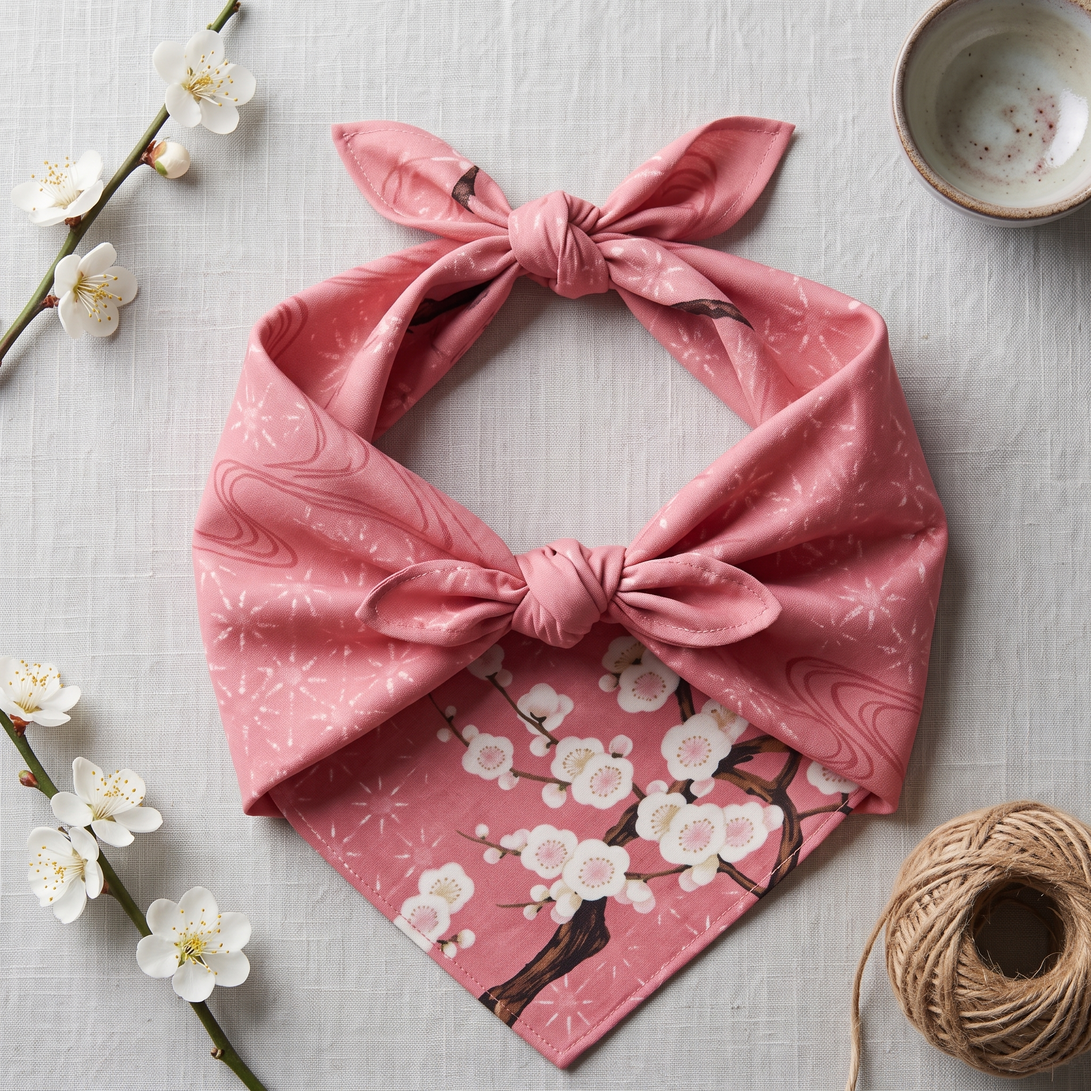
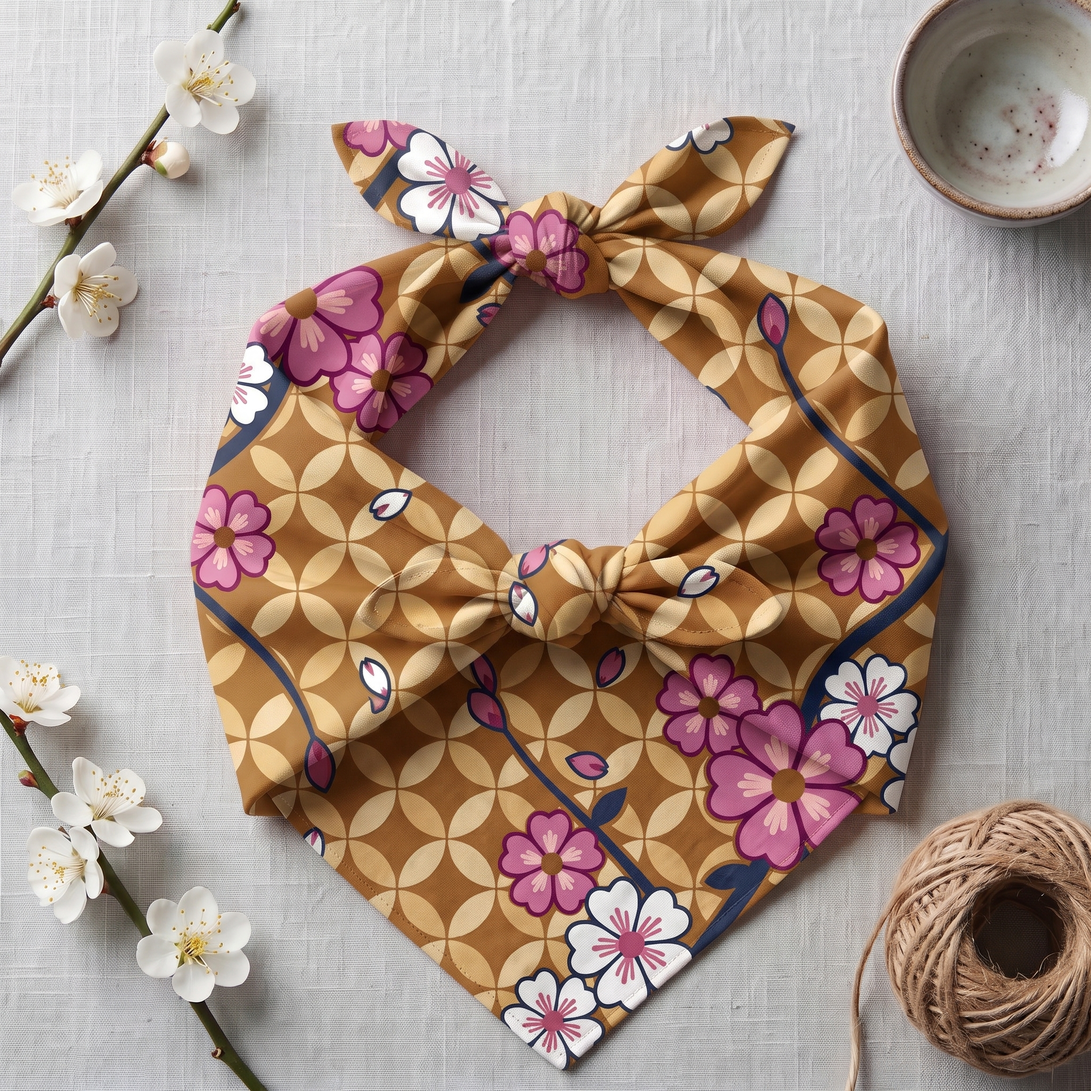
new

diff --git a/src/data/motifs.js b/src/data/motifs.js
@@ -1,66 +1,50 @@
 export const MOTIFS = [
   {
-    id: 'kawung',
+    id: 'mekar',
     code: '01',
-    name: 'Motif Kawung',
-    origin: 'Kasultanan Yogyakarta & Surakarta',
-    meaning: 'Kesucian Hati & Keadilan Pemimpin',
-    tagline: 'Perlambang Empat Penjuru Mata Angin & Keluhuran Budi',
-    image: '/images/kawung.jpg',
+    name: 'Mekar (Kawung × Sakura)',
+    origin: 'Akulturasi Nusantara & Jepang',
+    meaning: 'Kesucian Hati & Harapan yang Bersemi',
+    tagline: 'Harmoni Geometri Kawung Jawa dan Kelopak Sakura Jepang',
+    image: '/images/sakura.jpg',
     history:
-      'Berkembang sejak abad ke-13 di tanah Jawa, motif Kawung awalnya merupakan motif larangan (gehegan) yang hanya dikenakan oleh kalangan bangsawan dan abdi dalem yang berhati lurus dan bersih.',
+      'Lahir dari perpaduan motif sakral Kawung yang telah berkembang sejak era kerajaan Mataram dengan keanggunan bunga Sakura Jepang. Titik temu dua kebudayaan yang sama-sama memuliakan siklus alam dan kesederhanaan budi pekerti.',
     philosophy:
-      'Pola empat bulatan elips menyerupai irisan buah aren (kolang-kaling) yang berporos pada satu titik pusat. Melambangkan kesadaran diri menjaga kesucian hati, keadilan sosial, dan keseimbangan terhadap semesta serta Sang Pencipta.',
+      'Pola empat bulatan Kawung melambangkan kesucian hati, keadilan, dan penjagaan diri, sedangkan kelopak Sakura yang mekar merepresentasikan keindahan hidup, kerendahan hati, dan awal perjalanan yang penuh harapan.',
     momentRelevance:
-      'Bermakna luhur untuk bingkisan silaturahmi, hadiah pencapaian, dan tas bekal harian sebagai pengingat integritas diri.',
-    furoshikiPairing: 'Shizuku-tsutsumi (Tas Jinjing Bulat) untuk membawa ketulusan dalam aktivitas harian.'
+      'Pilihan istimewa untuk bandana harian, scarf leher, bingkisan persahabatan, atau tanda kasih penyemangat langkah baru.',
+    furoshikiPairing: 'Bandana Furoshiki Style & Scarf Leher (Ukuran S: 47 × 47 cm).'
   },
   {
-    id: 'parang',
+    id: 'kelana',
     code: '02',
-    name: 'Motif Parang Rusak',
-    origin: 'Keraton Mataram Islam (Yogyakarta)',
-    meaning: 'Pantang Menyerah & Keteguhan Jiwa',
-    tagline: 'Garis Miring Ombak Karang yang Tak Pernah Putus',
-    image: '/images/parang.jpg',
+    name: 'Kelana (Mega Mendung × Tsuru)',
+    origin: 'Pesisir Cirebon & Tradisi Jepang',
+    meaning: 'Keteduhan Jiwa & Kesetiaan Panjang Umur',
+    tagline: 'Awan Berarak Mega Mendung Mengiringi Kepak Sayap Bangau Tsuru',
+    image: '/images/burung.jpg',
     history:
-      'Diciptakan oleh Sultan Agung Hanyakrakusuma saat bertapa di pesisir Pantai Selatan Jawa, mengamati deburan ombak samudera yang gigih menghantam karang terjal tanpa henti.',
+      'Mengawinkan kekayaan batik Mega Mendung khas pesisir Cirebon yang sarat pengaruh akulturasi dengan Tsuru (burung bangau mahkota merah Jepang)—simbol suci perdamaian, kesetiaan abadi, dan umur panjang.',
     philosophy:
-      'Garis diagonal huruf S yang saling menjalin tanpa putus menyimbolkan kesinambungan perjuangan hidup, ketajaman budi pekerti, dan keteguhan batin menghadapi badai kehidupan.',
+      'Gradasi lapisan awan mengajarkan kesabaran, pengendalian ego, dan ketenangan batin, sementara burung bangau yang melintasi angkasa membawa pesan harapan luhur dan keharmonisan hidup.',
     momentRelevance:
-      'Sangat tepat dihadiahkan untuk kelulusan, perintisan usaha baru, promosi kepemimpinan, dan pelindung buku karya penting.',
-    furoshikiPairing: 'Hon-tsutsumi (Tas Pelindung Buku) atau Bin-tsutsumi (Carrier Botol Minuman).'
+      'Sangat ideal untuk wadah bekal bento keluarga, kado ulang tahun, hantaran pernikahan, dan ungkapan rasa syukur.',
+    furoshikiPairing: 'Otsukai-tsutsumi (Bungkus Bekal Bento & Kotak Kado Elegan - Ukuran M: 72 × 72 cm).'
   },
   {
-    id: 'truntum',
+    id: 'gelora',
     code: '03',
-    name: 'Motif Truntum',
-    origin: 'Kasunanan Surakarta Hadiningrat',
-    meaning: 'Cinta Kasih yang Bersemi Kembali',
-    tagline: 'Taburan Kembang Bintang Pembawa Kedamaian Jiwa',
-    image: '/images/truntum.jpg',
+    name: 'Gelora (Parang × Nami)',
+    origin: 'Keraton Mataram & Samudera Jepang',
+    meaning: 'Keteguhan Batin & Semangat Pantang Menyerah',
+    tagline: 'Garis Parang Tak Terputus Menembus Gulungan Ombak Nami',
+    image: '/images/ombak.jpg',
     history:
-      'Diciptakan oleh Kanjeng Ratu Kencana yang memandang keindahan taburan bintang di langit malam saat berikhtiar memulihkan keharmonisan dan kedamaian batin.',
+      'Memadukan motif Parang Rusak ciptaan Sultan Agung yang terinspirasi ombak karang Pantai Selatan dengan dinamika seni ombak Nami Jepang yang perkasa dan mentari terbit pembawa fajar baru.',
     philosophy:
-      'Kelopak kembang kecil menyerupai bintang berkelip melambangkan cinta tanpa pamrih yang terus mekar, bertumbuh kembali (tumaruntum), dan menghangatkan jiwa sesama.',
+      'Garis diagonal huruf S Parang melambangkan kesinambungan ikhtiar dan ketajaman budi, berpadu dengan deburan ombak biru yang melambangkan kekuatan menembus segala rintangan hidup.',
     momentRelevance:
-      'Pilihan utama untuk seserahan pernikahan, hadiah ulang tahun perkawinan, dan ungkapan kasih sayang tulus kepada sahabat.',
-    furoshikiPairing: 'Otsukai-tsutsumi (Bungkus Kado Klasik) dengan simpul pita anggun di bagian atas.'
-  },
-  {
-    id: 'megamendung',
-    code: '04',
-    name: 'Motif Mega Mendung',
-    origin: 'Cirebon, Jawa Barat',
-    meaning: 'Keteduhan, Kesabaran & Pengendalian Diri',
-    tagline: 'Awan Berlapis yang Membawa Keteduhan Hati',
-    image: '/images/megamendung.jpg',
-    history:
-      'Tumbuh dalam tradisi batik Cirebon, Mega Mendung dikenal melalui bentuk awan berlapis yang kuat dan dinamis. Coraknya mencerminkan pertemuan budaya pesisir Cirebon dengan pengaruh seni Tiongkok yang kemudian diolah menjadi identitas lokal.',
-    philosophy:
-      'Lapisan awan dan gradasi warnanya melambangkan keteduhan, kesabaran, serta kemampuan menahan amarah. Alurnya mengingatkan bahwa hidup selalu bergerak, namun hati perlu tetap tenang dalam menghadapi perubahan.',
-    momentRelevance:
-      'Cocok untuk hadiah penyemangat, ungkapan damai, apresiasi kepada sosok pembimbing, atau bingkisan bagi seseorang yang sedang memasuki babak baru.',
-    furoshikiPairing: 'Otsukai-tsutsumi atau Bin-tsutsumi agar alur awan Mega Mendung tetap terlihat utuh dan mengalir.'
+      'Sangat tepat untuk tas jinjing bepergian, kado kelulusan, perintisan karya baru, dan pelindung buku karya berharga.',
+    furoshikiPairing: 'Shizuku-tsutsumi (Tas Jinjing Bulat Serbaguna - Ukuran L: 96 × 96 cm).'
   }
 ];

diff --git a/src/components/ProductCraft.jsx b/src/components/ProductCraft.jsx
@@ -11,10 +11,10 @@ export default function ProductCraft() {
   const craftFeatures = [
     {
       icon: 'ph:bounding-box-duotone',
-      title: 'Dimensi Presisi 70 × 70 cm',
+      title: 'Pilihan Ukuran S, M, & L',
       subtitle: 'Standar Serbaguna Bujur Sangkar',
       description:
-        'Ukuran standar dalam tradisi pelipatan kain. Proporsi bujur sangkar simetris yang pas untuk membawa botol, buku, atau dijadikan tas jinjing harian tanpa kelebihan sisa kain yang mengganjal.',
+        'Hadir dalam 3 ukuran presisi: S (47×47 cm) untuk bandana/aksesori, M (72×72 cm) untuk bekal bento & kado, serta L (96×96 cm) untuk tas jinjing fleksibel tanpa sisa kain berlebih.',
       badge: 'Bujur Sangkar Simetris'
     },
     {
@@ -45,6 +45,30 @@ export default function ProductCraft() {
 
   return (
     <section className="relative py-16 lg:py-24 bg-[#F5F0EB]/60 border-t border-[#E6DFD5] overflow-hidden" id="spesifikasi">
+
+      {/* Subtle Javanese Batik Parang & Kawung Vector Background */}
+      <div className="absolute inset-0 pointer-events-none select-none opacity-[0.07]" aria-hidden="true">
+        <svg
+          className="absolute right-0 top-1/2 -translate-y-1/2 w-[500px] h-[500px] text-[#C85A32]"
+          viewBox="0 0 300 300"
+          fill="none"
+          stroke="currentColor"
+        >
+          <g strokeWidth="1.5" strokeLinecap="round">
+            <path d="M50,0 Q80,40 60,80 T70,160 T80,240 T90,320" />
+            <path d="M110,0 Q140,40 120,80 T130,160 T140,240 T150,320" strokeDasharray="4 4" strokeWidth="1" />
+            <path d="M170,0 Q200,40 180,80 T190,160 T200,240 T210,320" />
+            <path d="M230,0 Q260,40 240,80 T250,160 T260,240 T270,320" strokeDasharray="4 4" strokeWidth="1" />
+          </g>
+          <g strokeWidth="1.2" transform="translate(160, 80)">
+            <ellipse cx="50" cy="25" rx="22" ry="11" />
+            <ellipse cx="50" cy="75" rx="22" ry="11" />
+            <ellipse cx="25" cy="50" rx="11" ry="22" />
+            <ellipse cx="75" cy="50" rx="11" ry="22" />
+            <circle cx="50" cy="50" r="4" fill="currentColor" fillOpacity="0.3" />
+          </g>
+        </svg>
+      </div>
 
       <div className="max-w-7xl mx-auto px-6 lg:px-12 relative">
 
@@ -120,8 +144,8 @@ export default function ProductCraft() {
             <div className="bg-[#FDFBF7] rounded-2xl p-5 border border-[#E6DFD5] shadow-sm">
               <div className="relative rounded-xl overflow-hidden border border-[#E6DFD5] aspect-[4/3] bg-[#F5F0EB]">
                 <img
-                  src="/images/batik-spread.jpg"
-                  alt="Detail fisik kain katun rayon viscose dan jahit neci BHAPTIK"
+                  src="/images/burung.jpg"
+                  alt="Detail kain Furoshiki Batik BHAPTIK motif Kelana (Mega Mendung × Tsuru)"
                   className="w-full h-full object-cover card-zoom-img"
                 />
               </div>
@@ -133,8 +157,8 @@ export default function ProductCraft() {
                   <span className="font-semibold text-[#2B2523]">Katun Rayon Viscose 100%</span>
                 </div>
                 <div className="flex items-center justify-between py-1.5 border-b border-[#E6DFD5]">
-                  <span className="text-stone-500 font-medium">Dimensi Kain</span>
-                  <span className="font-semibold text-[#2B2523]">70 × 70 cm Presisi</span>
+                  <span className="text-stone-500 font-medium">Pilihan Ukuran</span>
+                  <span className="font-semibold text-[#2B2523]">S (47×47cm) · M (72×72cm) · L (96×96cm)</span>
                 </div>
                 <div className="flex items-center justify-between py-1.5 border-b border-[#E6DFD5]">
                   <span className="text-stone-500 font-medium">Finishing Tepian</span>

diff --git a/src/data/tutorials.js b/src/data/tutorials.js
@@ -6,11 +6,11 @@ export const TUTORIALS = [
     category: 'Tas Jinjing',
     difficulty: 'Mudah',
     stepsCount: 5,
-    clothSize: 'Kain 70x70cm',
-    image: '/images/hero-bag.jpg',
+    clothSize: 'Kain 96×96 cm (Gelora L)',
+    image: '/images/tas.jpg',
     youtubeUrl: 'https://youtu.be/Jmp0JxnccMU?si=trgYRHi7TSX7RAVs',
     badge: 'Paling Populer',
-    description: 'Sempurna untuk belanja santai atau wadah bekal estetik tanpa jarum dan benang.',
+    description: 'Tas jinjing praktis berpadu motif Gelora (Parang × Nami) untuk belanja santai dan aktivitas harian tanpa jahitan.',
     steps: [
       {
         number: 1,
@@ -46,11 +46,11 @@ export const TUTORIALS = [
     category: 'Aksesori',
     difficulty: 'Mudah',
     stepsCount: 3,
-    clothSize: 'Kain 70x70cm',
+    clothSize: 'Kain 47×47 cm (Mekar S)',
     image: '/images/bandana.jpg',
     youtubeUrl: 'https://youtu.be/9vAKh46O1bw?si=J2YXcShLBxj6jVqV',
     badge: 'Tren Modern',
-    description: 'Kreasi bandana rambut dan scarf leher praktis bermotif sakura batik untuk sentuhan gaya harian.',
+    description: 'Kreasi bandana rambut dan scarf leher praktis bermotif Mekar (Kawung × Sakura) untuk sentuhan gaya anggun.',
     steps: [
       {
         number: 1,
@@ -71,21 +71,21 @@ export const TUTORIALS = [
   },
   {
     id: 'otsukai',
-    title: 'Bungkus Kado Klasik',
+    title: 'Bungkus Bekal Bento & Kado',
     japaneseTitle: 'Otsukai-tsutsumi',
     category: 'Bungkus Kado',
     difficulty: 'Sangat Mudah',
     stepsCount: 2,
-    clothSize: 'Sakura x Batik',
-    image: '/images/classic-gift.jpg',
+    clothSize: 'Kain 72×72 cm (Kelana M)',
+    image: '/images/burung - bento.png',
     youtubeUrl: 'https://youtu.be/dIW7OQeN_kE?si=s20rI-KGkcYx_B5w',
     badge: 'Elegan',
-    description: 'Simpul dasi kupu-kupu tradisional untuk menghadiahi bingkisan dengan makna doa tulus.',
+    description: 'Simpul dasi kupu-kupu tradisional berpadu motif Kelana (Mega Mendung × Tsuru) untuk membungkus bento atau bingkisan istimewa.',
     steps: [
       {
         number: 1,
         title: 'Bungkus Kotak Silang',
-        detail: 'Posisikan kotak kado di tengah kain. Tarik sudut bawah menutup kotak, lalu tarik sudut atas menimpa lipatan pertama.'
+        detail: 'Posisikan kotak kado atau bento di tengah kain. Tarik sudut bawah menutup kotak, lalu tarik sudut atas menimpa lipatan pertama.'
       },
       {
         number: 2,

diff --git a/src/components/Hero.jsx b/src/components/Hero.jsx
@@ -10,6 +10,28 @@ const fadeUp = {
 export default function Hero({ onStartTutorial }) {
   return (
     <section className="hero-section relative overflow-hidden py-12 lg:py-20" id="hero">
+      {/* Subtle Javanese Batik Kawung Vector Accent */}
+      <div className="absolute inset-0 pointer-events-none select-none opacity-[0.08]" aria-hidden="true">
+        <svg
+          className="absolute -top-12 -left-12 w-[420px] h-[420px] text-[#C85A32]"
+          viewBox="0 0 200 200"
+          fill="none"
+          stroke="currentColor"
+        >
+          <g strokeWidth="1.2">
+            <ellipse cx="100" cy="60" rx="35" ry="18" />
+            <ellipse cx="100" cy="140" rx="35" ry="18" />
+            <ellipse cx="60" cy="100" rx="18" ry="35" />
+            <ellipse cx="140" cy="100" rx="18" ry="35" />
+            <ellipse cx="100" cy="60" rx="20" ry="10" strokeDasharray="2 2" strokeWidth="0.8" />
+            <ellipse cx="100" cy="140" rx="20" ry="10" strokeDasharray="2 2" strokeWidth="0.8" />
+            <ellipse cx="60" cy="100" rx="10" ry="20" strokeDasharray="2 2" strokeWidth="0.8" />
+            <ellipse cx="140" cy="100" rx="10" ry="20" strokeDasharray="2 2" strokeWidth="0.8" />
+            <circle cx="100" cy="100" r="8" fill="currentColor" fillOpacity="0.2" />
+            <circle cx="100" cy="100" r="3" fill="currentColor" />
+          </g>
+        </svg>
+      </div>
       <div className="hero-frame max-w-7xl mx-auto px-6 lg:px-12 relative">
         <div className="hero-grid grid grid-cols-1 lg:grid-cols-12 gap-12 items-center">
           <motion.div
@@ -61,8 +83,8 @@ export default function Hero({ onStartTutorial }) {
               transition={{ duration: 0.35, ease: 'easeOut' }}
             >
               <img
-                src="/images/batik-spread.jpg"
-                alt="Bentangan helai kain batik furoshiki BHAPTIK 70x70 cm"
+                src="/images/tas.jpg"
+                alt="Tas jinjing Furoshiki batik BHAPTIK motif Gelora (Parang × Nami)"
                 className="w-full h-full object-cover card-zoom-img"
               />
             </motion.div>

diff --git a/src/components/Tutorials.jsx b/src/components/Tutorials.jsx
@@ -11,7 +11,35 @@ export default function Tutorials({ onSelectTutorial }) {
     : TUTORIALS.filter(item => item.category === activeCategory);
 
   return (
-    <section className="py-16 lg:py-24 bg-[#FDFBF7]" id="tutorial">
+    <section className="relative py-16 lg:py-24 bg-[#FDFBF7] overflow-hidden" id="tutorial">
+      {/* Subtle Javanese Batik Kawung Vector Accent */}
+      <div className="absolute inset-0 pointer-events-none select-none opacity-[0.07]" aria-hidden="true">
+        <svg
+          className="absolute -right-16 -top-16 w-[450px] h-[450px] text-[#C85A32]"
+          viewBox="0 0 200 200"
+          fill="none"
+          stroke="currentColor"
+        >
+          <g strokeWidth="1.2">
+            <ellipse cx="100" cy="60" rx="35" ry="18" />
+            <ellipse cx="100" cy="140" rx="35" ry="18" />
+            <ellipse cx="60" cy="100" rx="18" ry="35" />
+            <ellipse cx="140" cy="100" rx="18" ry="35" />
+            <ellipse cx="100" cy="60" rx="18" ry="9" strokeDasharray="3 3" strokeWidth="0.8" />
+            <ellipse cx="100" cy="140" rx="18" ry="9" strokeDasharray="3 3" strokeWidth="0.8" />
+            <ellipse cx="60" cy="100" rx="9" ry="18" strokeDasharray="3 3" strokeWidth="0.8" />
+            <ellipse cx="140" cy="100" rx="9" ry="18" strokeDasharray="3 3" strokeWidth="0.8" />
+            <circle cx="100" cy="100" r="6" fill="currentColor" fillOpacity="0.25" />
+          </g>
+          <g strokeWidth="1" transform="translate(150, 150) scale(0.6)">
+            <ellipse cx="100" cy="60" rx="35" ry="18" />
+            <ellipse cx="100" cy="140" rx="35" ry="18" />
+            <ellipse cx="60" cy="100" rx="18" ry="35" />
+            <ellipse cx="140" cy="100" rx="18" ry="35" />
+            <circle cx="100" cy="100" r="6" fill="currentColor" fillOpacity="0.25" />
+          </g>
+        </svg>
+      </div>
       <div className="max-w-7xl mx-auto px-6 lg:px-12">
         
         {/* Header & Filter Tabs */}

diff --git a/src/components/Footer.jsx b/src/components/Footer.jsx
@@ -59,16 +59,18 @@ export default function Footer() {
             </p>
             <div className="space-y-3">
               <a
-                href="mailto:hello@bhaptik.id"
+                href="https://wa.me/6281317883988"
+                target="_blank"
+                rel="noopener noreferrer"
                 className="flex items-center gap-3 text-sm text-[#E6DFD5]/80 hover:text-white transition-colors"
               >
                 <span className="w-9 h-9 rounded-full border border-white/10 bg-white/5 flex items-center justify-center text-[#E9A37F]">
-                  <Icon icon="ph:envelope-simple-duotone" className="text-lg" />
+                  <Icon icon="ph:whatsapp-logo-duotone" className="text-lg" />
                 </span>
-                <span>hello@bhaptik.id</span>
+                <span>081317883988</span>
               </a>
               <a
-                href="https://instagram.com/bhaptik.id"
+                href="https://www.instagram.com/bhaptik/"
                 target="_blank"
                 rel="noopener noreferrer"
                 className="flex items-center gap-3 text-sm text-[#E6DFD5]/80 hover:text-white transition-colors"
@@ -76,7 +78,7 @@ export default function Footer() {
                 <span className="w-9 h-9 rounded-full border border-white/10 bg-white/5 flex items-center justify-center text-[#E9A37F]">
                   <Icon icon="ph:instagram-logo-duotone" className="text-lg" />
                 </span>
-                <span>@bhaptik.id</span>
+                <span>@bhaptik</span>
               </a>
             </div>
           </div>

diff --git a/src/components/QRModal.jsx b/src/components/QRModal.jsx
@@ -11,20 +11,20 @@ export default function QRModal({ isOpen, onClose, onSelectTutorialByName }) {
   const sampleFabrics = [
     {
       id: 'kain-1',
-      name: 'Kain Furoshiki Kawung 70cm',
-      serial: 'BHP-KWNG-7026',
-      origin: 'Solo - Kasunanan Surakarta',
+      name: 'Mekar (Kawung × Sakura) 47cm',
+      serial: 'BHP-MKR-4701',
+      origin: 'Akulturasi Batik Kawung & Sakura',
       material: 'Katun Rayon Viscose (Jahit Neci Wolsum)',
-      recommendedTutorial: 'Tas Jinjing Bulat',
+      recommendedTutorial: 'Bandana & Aksesori Rambut',
       icon: 'ph:flower-tulip-duotone'
     },
     {
       id: 'kain-2',
-      name: 'Kain Furoshiki Parang 70cm',
-      serial: 'BHP-PRNG-7089',
-      origin: 'Yogyakarta Hadiningrat',
+      name: 'Gelora (Parang × Nami) 96cm',
+      serial: 'BHP-GLR-9603',
+      origin: 'Akulturasi Parang Rusak & Gelombang Nami',
       material: 'Katun Rayon Viscose (Jahit Neci Wolsum)',
-      recommendedTutorial: 'Carrier Botol Artistik',
+      recommendedTutorial: 'Tas Jinjing Bulat',
       icon: 'ph:wave-sine-duotone'
     }
   ];

diff --git a/src/components/Philosophy.jsx b/src/components/Philosophy.jsx
@@ -196,8 +196,8 @@ export default function Philosophy() {
             <div className="lg:col-span-5">
               <div className="rounded-2xl overflow-hidden border border-[#E6DFD5] aspect-[4/3] relative bg-[#F5F0EB]">
                 <img
-                  src="/images/hero-bag.jpg"
-                  alt="Kain BHAPTIK Furoshiki dalam penggunaan harian"
+                  src="/images/burung - bento.png"
+                  alt="Penggunaan kain BHAPTIK Furoshiki motif Kelana untuk wadah bekal harian"
                   className="w-full h-full object-cover"
                 />
               </div>

diff --git a/src/components/Navbar.jsx b/src/components/Navbar.jsx
@@ -23,7 +23,7 @@ export default function Navbar({ onOpenQR, qrEnabled = false }) {
           <img
             src="/images/logo.png"
             alt="BHAPTIK Logo"
-            className="brand-mark h-9 w-auto object-contain"
+            className="brand-mark h-11 w-auto object-contain"
           />
         </a>
 
